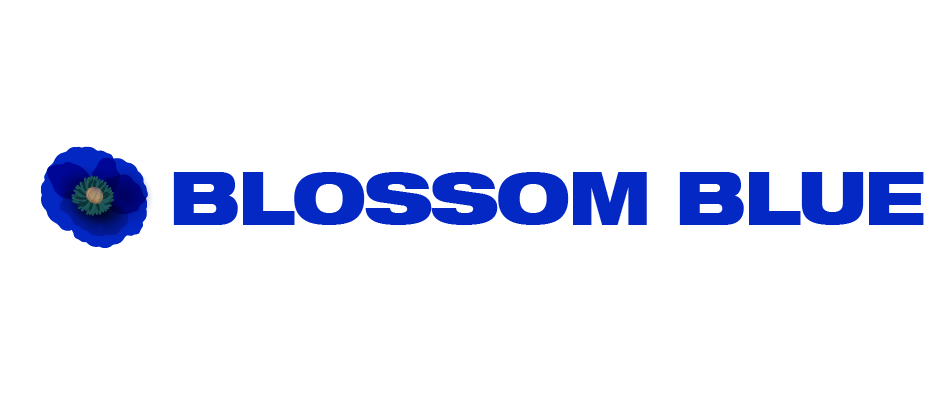
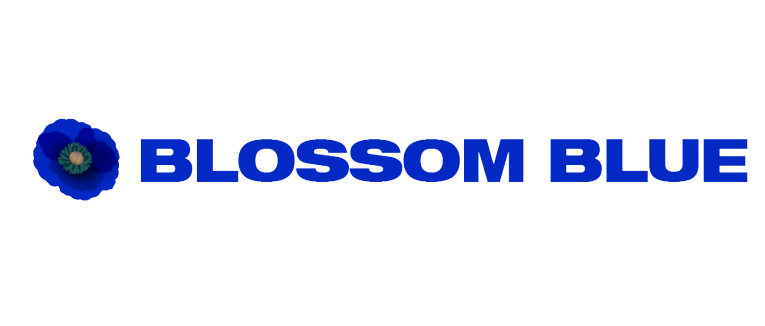
first commit

diff --git a/resources/views/realest/more_view.blade.php b/resources/views/realest/more_view.blade.php
@@ -35,35 +35,7 @@
 @endsection
 
 @section('content')
-<section class="bg-no-repeat bg-center bg-cover bg-[#FFF6F0] h-[350px] lg:h-[513px] xl:h-[650px] flex flex-wrap items-center relative before:absolute before:inset-0 before:content-[''] before:bg-[#000000] before:opacity-[70%]" style="background-image: url('{{ URL::asset('united.jpg') }}');">
-    <div class="container">
-        <div class="grid grid-cols-12">
-            <div class="col-span-12">
-                <div class="max-w-[600px]  mx-auto text-center text-white relative z-[1]">
-                    <div class="mb-5"><span class="text-base block">ممتلكاتنا</span></div>
-                    <h1 class="font-recoleta text-[36px] sm:text-[50px] md:text-[68px] lg:text-[50px] leading-tight xl:text-2xl">
-                        ملكيات
-
-                    </h1>
-
-                    <p class="text-base mt-5 max-w-[500px] mx-auto text-center">
-                        يتوفر هنا عدد ضخم من العقارات للبيع والشراء ، كما يمكنك أن تجد هنا عقارات مشتركة كما تريد
-
-
-                    </p>
-                </div>
-            </div>
-        </div>
-    </div>
-</section>
-
-
-
-
-
-
-
-
+@include('layouts.sub_screen', ['title' => '  ملكيات'])
 
 <section class="popular-properties py-[80px] lg:py-[120px]">
     <div class="container">

diff --git a/resources/views/realest/about.blade.php b/resources/views/realest/about.blade.php
@@ -9,7 +9,7 @@
 
   
 
-    <section class="bg-no-repeat bg-left-bottom xl:bg-right-bottom bg-contain xl:bg-cover bg-[#FFF6F0] h-[560px] xl:h-[650px] flex flex-wrap items-center relative" style="background-image:  url('{{ URL::asset('united.jpg') }}');">
+    <section class="bg-no-repeat bg-left-bottom xl:bg-right-bottom bg-contain xl:bg-cover bg-[#FFF6F0] h-[560px] xl:h-[650px] flex flex-wrap items-center relative" style="background-image:  url('{{ URL::asset('sub_screen.jpg') }}');">
         <div class="container">
             <div class="grid grid-cols-12">
                 <div class="col-span-12">
@@ -29,7 +29,7 @@
         </div>
         {{-- <img class="absolute left-0 bottom-0" src="{{ URL::asset('build.jpg') }}" alt="icon" width="112" height="138"> --}}
     </section>
-
+    @include('layouts.sub_screen', ['title' => 'تفاصيل العقار'])
     <!-- Hero section end -->
 
     <section class="relative z-[1] mt-[80px] xl:mt-0">

diff --git a/resources/views/realest/blog.blade.php b/resources/views/realest/blog.blade.php
@@ -12,7 +12,7 @@
  
 
 
-    <section class="bg-no-repeat bg-center bg-cover bg-[#FFF6F0] h-[350px] lg:h-[513px] xl:h-[650px] flex flex-wrap items-center relative before:absolute before:inset-0 before:content-[''] before:bg-[#000000] before:opacity-[70%]" style="background-image: url('{{ URL::asset('united.jpg') }}');">
+    <section class="bg-no-repeat bg-center bg-cover bg-[#FFF6F0] h-[350px] lg:h-[513px] xl:h-[650px] flex flex-wrap items-center relative before:absolute before:inset-0 before:content-[''] before:bg-[#000000] before:opacity-[70%]" style="background-image: url('{{ URL::asset('sub_screen.jpg') }}');">
         <div class="container">
             <div class="grid grid-cols-12">
                 <div class="col-span-12">

diff --git a/resources/views/realest/detalis_view.blade.php b/resources/views/realest/detalis_view.blade.php
@@ -15,7 +15,7 @@
 
             <div class="grid grid-cols-12 mb-[-30px] gap-[30px] xl:gap-[50px]">
                 <div class="col-span-12 md:col-span-6 lg:col-span-8 mb-[30px]">
-                    <img src="assets/images/properties-details/post1.png" class="w-auto h-auto" loading="lazy" alt="Elite Garden Resedence." width="770" height="465">
+                    <img src="{{ URL::asset($p) }}" class="w-auto h-auto" loading="lazy" alt="Elite Garden Resedence." width="770" height="465">
                     <div class="mt-[45px] mb-[35px]">
                         <h2 class="font-recoleta leading-tight text-[22px] md:text-[28px] lg:text-[36px] text-primary mb-[5px]">
                             Ruposibangla de Parlosia.</h2>

diff --git a/resources/views/layouts/head_web_design.blade.php b/resources/views/layouts/head_web_design.blade.php
@@ -5,7 +5,7 @@
             <div class="col-span-12">
                 <div class="flex flex-wrap items-center justify-between">
                     <a href="index.html" class="block">
-                        <img class="w-full h-full" src="{{ URL::asset('assets/images/logo/logo.svg') }}" loading="lazy" width="99" height="46" alt="brand logo">
+                        <img  src="{{ URL::asset('BLOSSOM.png') }}"  width="200" height="200" >
                     </a>
                     <nav class="flex flex-wrap items-center">
                         <ul class="hidden lg:flex flex-wrap items-center font-recoleta text-[16px] xl:text-[18px] leading-none text-black">

diff --git a/resources/views/layouts/fotter_web.blade.php b/resources/views/layouts/fotter_web.blade.php
@@ -4,7 +4,7 @@
         <div class="grid grid-cols-12 gap-x-[30px] mb-[-30px]">
             <div class="col-span-12 sm:col-span-6 lg:col-span-4 mb-[30px]">
                 <a href="index.html" class="block mb-[25px]">
-                    <img src="{{ URL::asset('assets/images/logo/logo.svg') }} "width="99" height="46" loading=lazy alt="footer logo">
+                    <img  src="{{ URL::asset('BLOSSOM.png') }}"  width="200" height="200" >
                 </a>
                 <p class="mb-5 xl:mb-40 max-w-270">
                     ما هو دور شركة blossomblue
